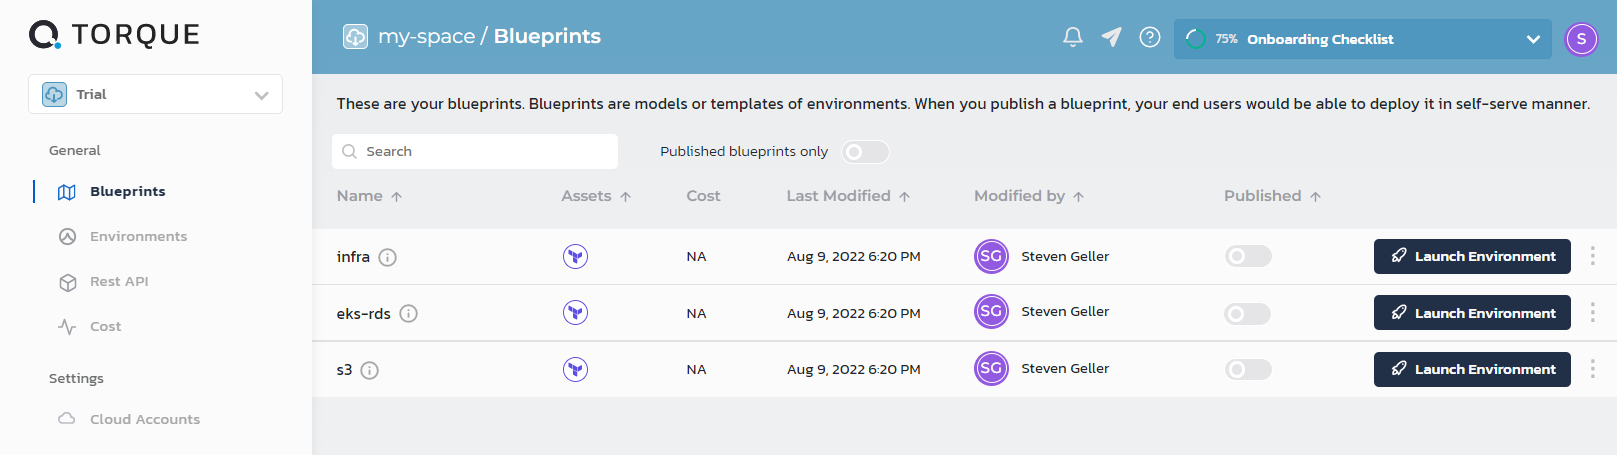
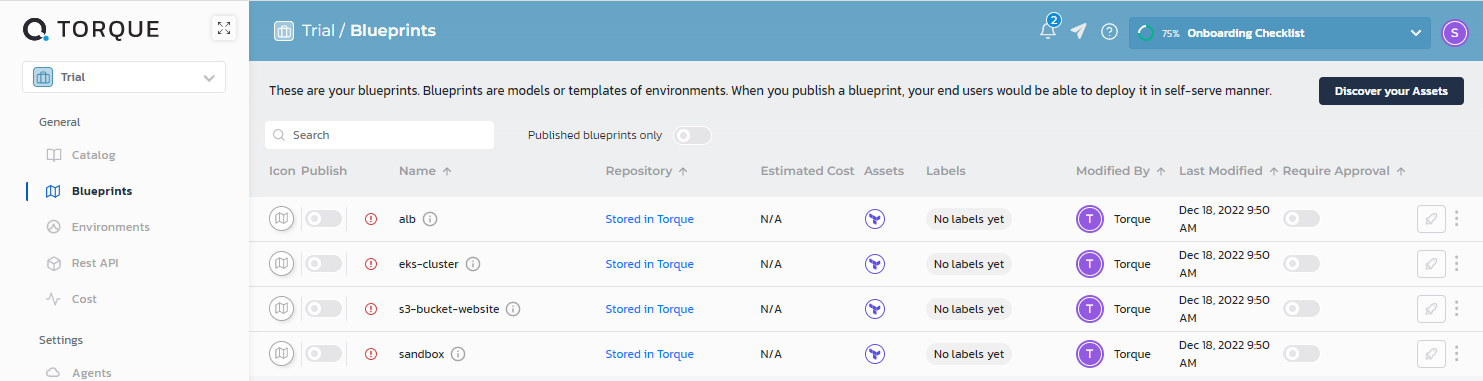
Catalog page

diff --git a/docs/getting-started/Launch-environment.md b/docs/getting-started/Launch-environment.md
@@ -12,7 +12,7 @@ You are now ready to launch your first environment.
 
 1. Open your space.
 2. In the __Blueprints__ page, __Publish__ a suitable autogenerated blueprint.
-3. __Launch__ the blueprint.
+3. In the __Catalog__, __Launch__ the blueprint.
 4. Provide the name of the Kubernetes cluster namespace and execution host to use. Later on, you will want to add these details to the autogenerated blueprint, as explained in [Customizing Autogenerated Blueprints](/blueprint-designer-guide/customize-blueprints). 
 4. Wait until the environment is active and use as needed. URLs to the environment's applications are typically provided as outputs - these can be found in the environment's __Quicklinks__ on the right, or in the __Parameters__ pane.
    > ![Locale Dropdown](/img/outputs.gif)

diff --git a/docs/getting-started/Discover Your Assets.md b/docs/getting-started/Discover Your Assets.md
@@ -19,5 +19,6 @@ Click on an autogenerated blueprint to view the resulting yaml file. You can cus
 2. Click **Add a Repository** and follow the instructions.
 3. Now that your repository is connected, click __Discover Assets__ to have Torque auto-generate blueprints out of the suitable assets.
   > ![Locale Dropdown](/img/discover-assets-2.png)
-
+4. Next, go to the __Blueprints__ page and publish the new blueprints.
+  > ![Locale Dropdown](/img/publish-blueprint.png)
 If you encounter a permissions problem, follow the steps in [GitHub](/admin-guide/source-control-github) or [GitLab](/admin-guide/source-control-gitlab).
